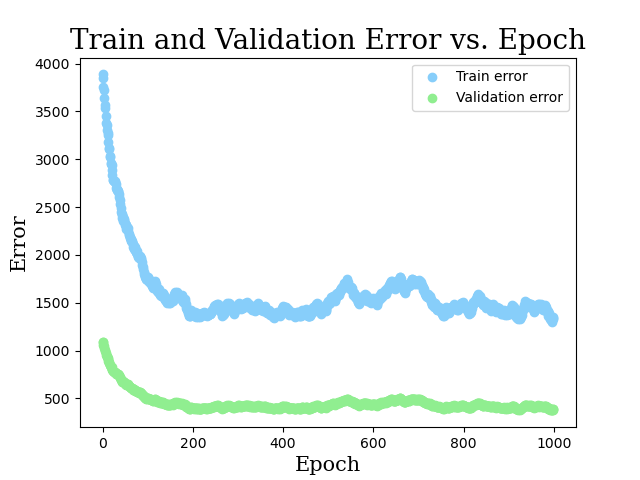
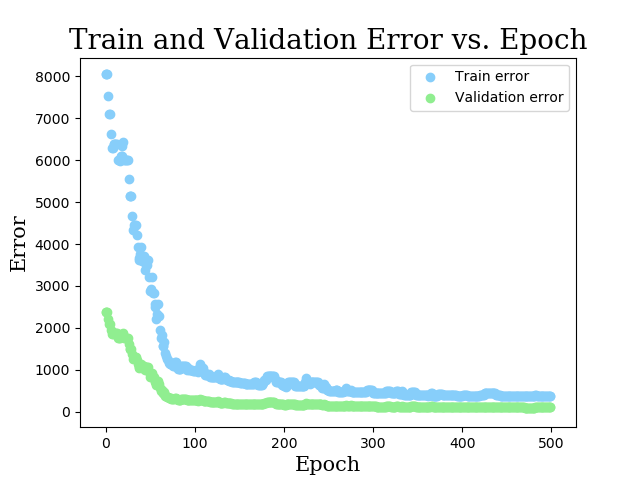
some changes

diff --git a/main.py b/main.py
@@ -16,24 +16,21 @@ x_train_features,y_train_values = d.get_x_y(train_df)
 x_valid_features,y_valid_values = d.get_x_y(valid_df)
 x_test_features,y_test_values = d.get_x_y(test_df)
 
+
 def algorithm_svm1(epochs,num_tests,k=7):
-    alpha_nums = []
-    const_nums = []
     for i in range(num_tests):
-        alpha = random.uniform(0.01,0.05)
-        alpha_nums.append(alpha) 
-        constant = random.uniform(0.5,1.5)
-        const_nums.append(constant)
-        #alpha = 0.05
-        #constant = 1
-        error_train_list,error_valid_list = svm.regression(
+        alpha = 0.05
+        constant = 1
+        error_train_list,error_valid_list,w = svm.regression(
             x_train_features,y_train_values,x_valid_features,y_valid_values,alpha,epochs,constant,k)
         
         a.plot_error(epochs,error_train_list,error_valid_list,f"svm{i}")
 
+    #a.svm(x_train_features,y_train_values,w)
+    
     #a.save_files(alpha_nums,const_nums)
 
-#algorithm_svm1(500, 3)
+#algorithm_svm1(500, 1)
 
 #############################
 #### LOGISTIC REGRESSION ####
@@ -55,4 +52,4 @@ def algorithm_logistic1(epochs,num_tests,k=7):
         
         a.plot_error(epochs,error_train_list,error_valid_list,f"logistic{i}")
 
-algorithm_logistic1(500, 3)
+algorithm_logistic1(500, 1)

diff --git a/svm.py b/svm.py
@@ -15,16 +15,16 @@ def error(w, x, y, b, const):
 
     return grad + const*err
 
-def derivates(y, w, x, b, const, alpha):
+def derivates(y, w, x, b, const, alpha, epochs):
     n = len(w)
     dw = [0] * len(w)
     db = b
     for i in range(n):
         temp = (y * h(w, x, b))
         if temp > 1:
-            dw[i] = w[i] - alpha * w[i]
+            dw[i] = w[i] - alpha * w[i] * const * (1/epochs)
         else:
-            dw[i] = w[i] - alpha * (w[i] - const * y * x[i])
+            dw[i] = w[i] - alpha * ((1/epochs) * w[i] - const * y * x[i])
             db = b - alpha * (-y * const)
 
     return dw, db
@@ -38,9 +38,9 @@ def regression(x_train, y_train, x_valid, y_valid, alpha, epochs, c, k):
         p = random.randint(len(x_train))
         x_list = x_train.iloc[p].tolist()
         y_list = y_train.iloc[p]
+        w, b = derivates(y_list, w, x_list, b, c, alpha, epochs)
         temp_train = error(w, x_train, y_train, b, c)
         temp_valid = error(w, x_valid, y_valid, b, c)
         train_list.append(temp_train)
         valid_list.append(temp_valid)
-        w, b = derivates(y_list, w, x_list, b, c, alpha)
-    return train_list, valid_list
+    return train_list, valid_list,w

diff --git a/logistic_regression.py b/logistic_regression.py
@@ -28,8 +28,8 @@ def derivates(y, w, x, b,k):
     for i in range(k):
         for j in range(n):
             x_temp = np.array(x.loc[j])
-            dw[i] += (e ** -h(w, x_temp, b) * w[i]) / (1 + e ** (-h(w, x_temp, b))) ** 2
-        db += (e ** -h(w, x_temp, b)) / (1 + e ** (-h(w, x_temp, b))) ** 2
+            dw[i] += (e ** h(w, x_temp, b) * w[i]) / (1 + e ** (h(w, x_temp, b)))
+        db += (e ** h(w, x_temp, b)) / (1 + e ** (h(w, x_temp, b)))
     return dw, db
 
 def update(w_values,b,dw_values,db,alpha,k):

diff --git a/aux.py b/aux.py
@@ -1,5 +1,15 @@
 import matplotlib.pyplot as plt
 
+def svm(x_train,y_train,support_vectors):
+    plt.scatter(x_train[:,0], y_train[:,0])
+    plt.title('Linearly separable data')
+    """ plt.scatter(support_vectors[:,0], support_vectors[:,7], color='red')
+    plt.title('Linearly separable data with support vectors') """
+    plt.xlabel('X')
+    plt.ylabel('Y')
+    plt.show()
+
+
 font1 = {'family':'serif','size':20}
 font2 = {'family':'serif','size':15}
 
